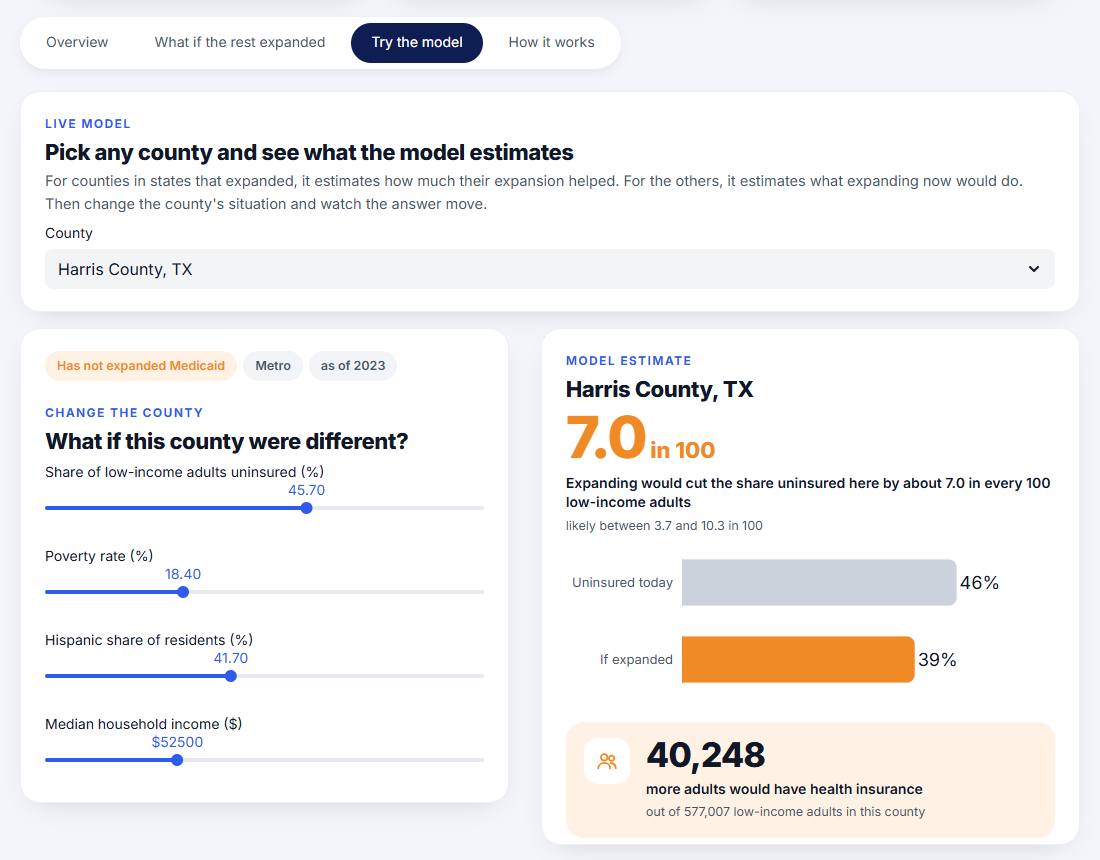
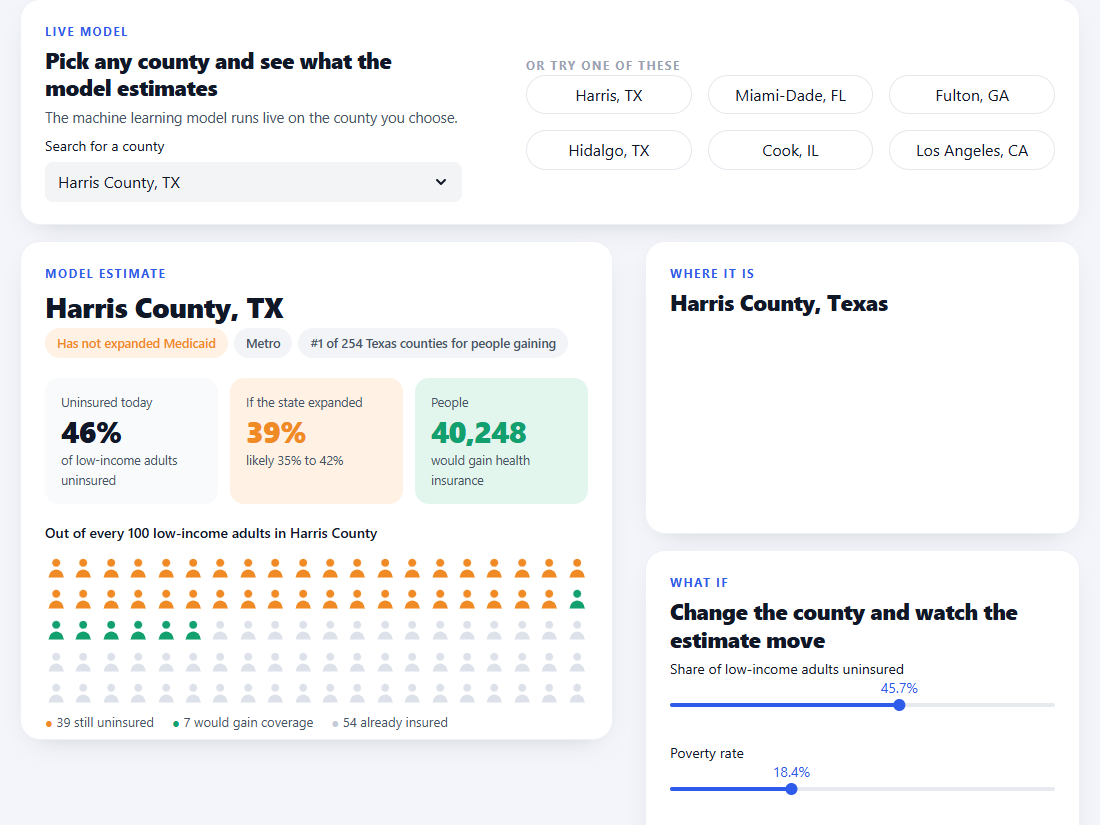
Try the model: people grid, county locator map, quick picks, result tiles, state rank, reset

Changed region(s): [[0.0309, 0.0, 0.9582, 1.0], [0.6491, 0.0909, 0.7727, 0.1212], [0.8655, 0.0909, 0.9273, 0.1212]]

diff --git a/app/app.py b/app/app.py
@@ -27,6 +27,14 @@ FEATURES = ["base_rate", "pre_trend", "base_rate_138_400", "poverty_pct_2013", "
 GEOJSON = "https://raw.githubusercontent.com/plotly/datasets/master/geojson-counties-fips.json"
 STATE_NAMES = {"TX": "Texas", "FL": "Florida", "GA": "Georgia", "TN": "Tennessee", "SC": "South Carolina", "AL": "Alabama",
                "MS": "Mississippi", "KS": "Kansas", "WI": "Wisconsin", "WY": "Wyoming"}
+ALL_STATES = dict(AL="Alabama", AK="Alaska", AZ="Arizona", AR="Arkansas", CA="California", CO="Colorado", CT="Connecticut",
+                  DE="Delaware", DC="District of Columbia", FL="Florida", GA="Georgia", HI="Hawaii", ID="Idaho", IL="Illinois",
+                  IN="Indiana", IA="Iowa", KS="Kansas", KY="Kentucky", LA="Louisiana", ME="Maine", MD="Maryland",
+                  MA="Massachusetts", MI="Michigan", MN="Minnesota", MS="Mississippi", MO="Missouri", MT="Montana",
+                  NE="Nebraska", NV="Nevada", NH="New Hampshire", NJ="New Jersey", NM="New Mexico", NY="New York",
+                  NC="North Carolina", ND="North Dakota", OH="Ohio", OK="Oklahoma", OR="Oregon", PA="Pennsylvania",
+                  RI="Rhode Island", SC="South Carolina", SD="South Dakota", TN="Tennessee", TX="Texas", UT="Utah",
+                  VT="Vermont", VA="Virginia", WA="Washington", WV="West Virginia", WI="Wisconsin", WY="Wyoming")
 ICON = {  # inline SVG icons (stroke = currentColor)
     "down": '<svg width="22" height="22" viewBox="0 0 24 24" fill="none" stroke="currentColor" stroke-width="2.2" stroke-linecap="round" stroke-linejoin="round"><path d="M12 5v14M5 12l7 7 7-7"/></svg>',
     "people": '<svg width="22" height="22" viewBox="0 0 24 24" fill="none" stroke="currentColor" stroke-width="2" stroke-linecap="round" stroke-linejoin="round"><circle cx="9" cy="8" r="3.5"/><path d="M2.5 20c0-3.6 2.9-6 6.5-6s6.5 2.4 6.5 6"/><circle cx="17" cy="9" r="2.8"/><path d="M16 14.2c3 .3 5.5 2.4 5.5 5.8"/></svg>',
@@ -137,6 +145,9 @@ st.markdown(f"""
   .foot {{ text-align: center; color: {GREY}; font-size: 13px; margin-top: 26px; }}
   .foot a {{ color: {BLUE}; text-decoration: none; font-weight: 600; }}
   [data-testid="stSlider"] [role="slider"] {{ background: {BLUE}; }}
+  .stButton button {{ border-radius: 999px; border: 1px solid #E4E7EC; background: #fff; color: {INK}; font-weight: 600;
+                      font-size: 13px; padding: 6px 12px; min-height: 38px; }}
+  .stButton button:hover {{ border-color: {BLUE}; color: {BLUE}; background: {BLUE_SOFT}; }}
 </style>
 """, unsafe_allow_html=True)
 
@@ -270,64 +281,133 @@ with tab2:
                          hide_index=True, use_container_width=True, height=420)
 
 # --------------------------------------------------------------------------------------------- 3. try the model
+PERSON = ('<svg viewBox="0 0 24 24" width="100%" height="100%"><circle cx="12" cy="6.2" r="4.2" fill="{c}"/>'
+          '<path d="M4 22c0-5 3.6-8.6 8-8.6s8 3.6 8 8.6z" fill="{c}"/></svg>')
+QUICK = ["Harris County, TX", "Miami-Dade County, FL", "Fulton County, GA", "Hidalgo County, TX", "Cook County, IL",
+         "Los Angeles County, CA"]
+SLIDERS = [("base_rate", "Share of low-income adults uninsured", 2.0, 75.0, 0.5, "%.1f%%"),
+           ("poverty_pct_2013", "Poverty rate", 2.0, 55.0, 0.5, "%.1f%%"),
+           ("pct_hispanic_2013", "Hispanic share of residents", 0.0, 99.0, 0.5, "%.1f%%"),
+           ("median_income_2013", "Median household income", 20000.0, 130000.0, 1000.0, "$%d")]
+
+
+def people_grid(still, gain, colour_gain, colour_still):
+    """100 person icons, filled row by row: still uninsured, then gaining coverage, then already insured."""
+    cells = []
+    for i in range(100):
+        c = colour_still if i < still else colour_gain if i < still + gain else "#DDE2EA"
+        cells.append(f'<div style="width:100%;aspect-ratio:1">{PERSON.format(c=c)}</div>')
+    return ('<div style="display:grid;grid-template-columns:repeat(20,minmax(0,1fr));gap:5px 5px;margin:10px 0 8px 0;max-width:100%">'
+            + "".join(cells) + "</div>")
+
+
+def county_locator(row):
+    try:
+        st_counties = COUNTIES[COUNTIES.state == row.state]
+        z = (st_counties.county_fips == row.county_fips).astype(int)
+        fig = go.Figure(go.Choropleth(geojson=load_geojson(), locations=st_counties.county_fips, z=z, featureidkey="id",
+                                      colorscale=[[0, "#E4E9F2"], [1, ORANGE if pd.isna(row.expansion_year) else BLUE]],
+                                      showscale=False, marker_line_color="#FFFFFF", marker_line_width=0.5,
+                                      text=st_counties.county_name, hovertemplate="%{text}<extra></extra>"))
+        fig.update_geos(fitbounds="locations", visible=False, bgcolor="rgba(0,0,0,0)")
+        st.plotly_chart(base_layout(fig, 190), use_container_width=True, config=CFG)
+    except Exception:
+        pass
+
+
+def pick_county(label):
+    st.session_state.county = label
+
+
 with tab3:
     labels = (COUNTIES.county_name + ", " + COUNTIES.state).tolist()
+    st.session_state.setdefault("county", "Harris County, TX")
     with card():
-        head("Live model", "Pick any county and see what the model estimates",
-             "For counties in states that expanded, it estimates how much their expansion helped. For the others, it "
-             "estimates what expanding now would do. Then change the county's situation and watch the answer move.")
-        choice = st.selectbox("County", labels, index=labels.index("Harris County, TX") if "Harris County, TX" in labels else 0)
+        k1, k2 = st.columns([1, 1.25], gap="large")
+        with k1:
+            head("Live model", "Pick any county and see what the model estimates",
+                 "The machine learning model runs live on the county you choose.")
+            st.selectbox("Search for a county", labels, key="county")
+        with k2:
+            st.markdown('<div style="height:34px"></div><div class="card-k" style="color:#98A2B3">Or try one of these</div>',
+                        unsafe_allow_html=True)
+            cols = st.columns(3)
+            for i, q in enumerate(QUICK):
+                cols[i % 3].button(q.replace(" County", ""), key=f"quick{i}", on_click=pick_county, args=(q,),
+                                   use_container_width=True)
+
+    choice = st.session_state.county
     row = COUNTIES.iloc[labels.index(choice)]
+    fips = row.county_fips
     expanded = pd.notna(row.expansion_year)
     colour, soft = (BLUE, BLUE_SOFT) if expanded else (ORANGE, ORANGE_SOFT)
-    c1, c2 = st.columns([1, 1.1], gap="medium")
-    with c1, card():
+
+    # sliders live in the right column but their values drive the estimate on the left, so read them first
+    defaults = {"base_rate": float(round(row.base_rate, 1)), "poverty_pct_2013": float(round(row.poverty_pct_2013, 1)),
+                "pct_hispanic_2013": float(round(row.pct_hispanic_2013, 1)), "median_income_2013": float(row.median_income_2013)}
+    for key, *_ in SLIDERS:
+        st.session_state.setdefault(f"{key}_{fips}", defaults[key])
+
+    x = row[FEATURES].astype(float).copy()
+    for key, *_ in SLIDERS:
+        v = st.session_state[f"{key}_{fips}"]
+        if v != defaults[key]:                       # keep the county's exact value unless a slider was moved
+            if key == "median_income_2013":
+                x["log_income_2013"] = np.log(v)
+            else:
+                x[key] = v
+    moved = any(st.session_state[f"{k}_{fips}"] != defaults[k] for k, *_ in SLIDERS)
+    base = float(x["base_rate"])
+    X = x.values.reshape(1, -1)
+    eff = float(model.effect(X)[0])
+    lo, hi = model.effect_interval(X, alpha=0.05)
+    after = max(base + eff, 0.0)
+    adults = -eff / 100 * row.low_income_adults_base
+    same_state = COUNTIES[COUNTIES.state == row.state]
+    rank = int((same_state.adults_gaining > row.adults_gaining).sum()) + 1
+
+    left, right = st.columns([1.35, 1], gap="medium")
+    with left, card():
         status = f"Expanded Medicaid in {int(row.expansion_year)}" if expanded else "Has not expanded Medicaid"
-        st.markdown(f'<span class="pill" style="background:{soft};color:{colour}">{status}</span>'
+        st.markdown(f'<div style="display:flex;justify-content:space-between;align-items:flex-start;gap:10px">'
+                    f'<div><div class="card-k">Model estimate{" · what-if" if moved else ""}</div>'
+                    f'<div class="card-h" style="font-size:28px">{choice}</div></div></div>'
+                    f'<span class="pill" style="background:{soft};color:{colour}">{status}</span>'
                     f'<span class="pill" style="background:#F2F4F7;color:{INK_2}">{row.rurality}</span>'
-                    f'<span class="pill" style="background:#F2F4F7;color:{INK_2}">as of {int(row.base_year)}</span>',
+                    f'<span class="pill" style="background:#F2F4F7;color:{INK_2}">'
+                    f'#{rank} of {len(same_state)} {ALL_STATES.get(row.state, row.state)} counties for people gaining</span>',
                     unsafe_allow_html=True)
-        head("Change the county", "What if this county were different?")
-        base = st.slider("Share of low-income adults uninsured (%)", 2.0, 75.0, float(round(row.base_rate, 1)), 0.5)
-        pov = st.slider("Poverty rate (%)", 2.0, 55.0, float(round(row.poverty_pct_2013, 1)), 0.5)
-        hisp = st.slider("Hispanic share of residents (%)", 0.0, 99.0, float(round(row.pct_hispanic_2013, 1)), 0.5)
-        income = st.slider("Median household income ($)", 20000, 130000, int(row.median_income_2013), 1000, format="$%d")
-        x = row[FEATURES].astype(float).copy()
-        # use the county's exact values unless a slider was moved (sliders round to their step)
-        if base != float(round(row.base_rate, 1)):
-            x["base_rate"] = base
-        if pov != float(round(row.poverty_pct_2013, 1)):
-            x["poverty_pct_2013"] = pov
-        if hisp != float(round(row.pct_hispanic_2013, 1)):
-            x["pct_hispanic_2013"] = hisp
-        if income != int(row.median_income_2013):
-            x["log_income_2013"] = np.log(income)
-        base = x["base_rate"]
-        X = x.values.reshape(1, -1)
-        eff = float(model.effect(X)[0])
-        lo, hi = model.effect_interval(X, alpha=0.05)
-        adults = -eff / 100 * row.low_income_adults_base
-    with c2, card():
-        verb = "Expansion cut the share uninsured here by about" if expanded else "Expanding would cut the share uninsured here by about"
-        head("Model estimate", choice)
-        st.markdown(f'<div class="big" style="color:{colour}">{abs(eff):.1f}<small> in 100</small></div>'
-                    f'<div class="lbl">{verb} {abs(eff):.1f} in every 100 low-income adults</div>'
-                    f'<div class="sub">likely between {abs(hi[0]):.1f} and {abs(lo[0]):.1f} in 100</div>',
+        before_lbl, after_lbl = ("Before expansion", "After expansion") if expanded else ("Uninsured today", "If the state expanded")
+        gain_lbl = "insured because of expansion" if expanded else "would gain health insurance"
+        tiles = [(before_lbl, f"{base:.0f}%", "of low-income adults uninsured", INK, "#F8FAFC"),
+                 (after_lbl, f"{after:.0f}%", f"likely {base + lo[0]:.0f}% to {base + hi[0]:.0f}%", colour, soft),
+                 ("People", f"{adults:,.0f}", gain_lbl, GREEN, GREEN_SOFT)]
+        st.markdown('<div style="display:grid;grid-template-columns:repeat(3,1fr);gap:12px;margin:14px 0 4px 0">' + "".join(
+            f'<div style="background:{bg};border-radius:14px;padding:14px 16px"><div class="sub" style="margin:0">{t}</div>'
+            f'<div class="num" style="color:{c};font-size:30px;margin-top:4px">{v}</div><div class="sub">{s}</div></div>'
+            for t, v, s, c, bg in tiles) + "</div>", unsafe_allow_html=True)
+        still, gain = round(after), round(base) - round(after)
+        st.markdown(f'<div class="lbl" style="margin-top:16px">Out of every 100 low-income adults in {row.county_name}</div>'
+                    + people_grid(still, gain, GREEN, colour)
+                    + f'<div style="display:flex;gap:18px;font-size:13px;color:{INK_2};flex-wrap:wrap">'
+                      f'<span><b style="color:{colour}">●</b> {still} still uninsured</span>'
+                      f'<span><b style="color:{GREEN}">●</b> {gain} {"gained" if expanded else "would gain"} coverage</span>'
+                      f'<span><b style="color:#C4CBD6">●</b> {100 - still - gain} already insured</span></div>',
                     unsafe_allow_html=True)
-        fig = go.Figure(go.Bar(x=[base, base + eff], y=["Uninsured today" if not expanded else "Before expansion",
-                                                         "If expanded" if not expanded else "After expansion"],
-                               orientation="h", marker=dict(color=["#CBD2DC", colour], cornerradius=8),
-                               text=[f"{base:.0f}%", f"{base + eff:.0f}%"], textposition="outside",
-                               textfont=dict(size=18, color=INK), width=0.6))
-        fig.update_xaxes(visible=False, range=[0, max(base, 5) * 1.3])
-        fig.update_yaxes(autorange="reversed", tickfont=dict(size=13, color=INK_2))
-        st.plotly_chart(base_layout(fig, 170), use_container_width=True, config=CFG)
-        st.markdown(f'<div class="stat" style="box-shadow:none;background:{soft};padding:16px 18px">'
-                    f'<div class="ic" style="background:#fff;color:{colour}">{ICON["people"]}</div><div>'
-                    f'<div class="num">{adults:,.0f}</div>'
-                    f'<div class="lbl">{"adults insured because of expansion" if expanded else "more adults would have health insurance"}</div>'
-                    f'<div class="sub">out of {row.low_income_adults_base:,.0f} low-income adults in this county</div></div></div>',
-                    unsafe_allow_html=True)
+
+    with right:
+        with card():
+            head("Where it is", f"{row.county_name}, {ALL_STATES.get(row.state, row.state)}")
+            county_locator(row)
+        with card():
+            head("What if", "Change the county and watch the estimate move")
+            for key, label, lo_, hi_, step, fmt in SLIDERS:
+                st.slider(label, lo_, hi_, step=step, format=fmt, key=f"{key}_{fips}")
+
+            def reset():
+                for k, *_ in SLIDERS:
+                    st.session_state[f"{k}_{fips}"] = defaults[k]
+            st.button("Reset to the real county", on_click=reset, use_container_width=True, disabled=not moved)
 
 # --------------------------------------------------------------------------------------------- 4. how it works
 with tab4:
